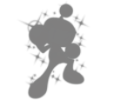
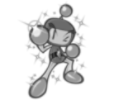
Sprites actualizados en el menu al hacer click y las sombras cambiadas.

diff --git a/petazeta/src/viewController/menuPruebitas.java b/petazeta/src/viewController/menuPruebitas.java
@@ -294,7 +294,21 @@ public class menuPruebitas extends JFrame implements Observer {
 				else if(pNum=='2'){pBomber = Bomber2;}
 				else if(pNum=='3'){pBomber = Bomber3;}
 				else if(pNum=='4'){pBomber = Bomber4;}
+
 				ImageIcon sprite = new ImageIcon(getClass().getResource("bomberUnknown" + pNum + ".png"));
+				pBomber.setIcon(escalarImagen(sprite, pBomber.getWidth(), pBomber.getHeight()));
+				
+			//Al hacer click
+				}
+			if(accion.matches("bomber\\d+Click")) 
+			{
+				char pNum = accion.charAt(6);
+				JLabel pBomber=null;
+				if(pNum=='1'){pBomber = Bomber1;}
+				else if(pNum=='2'){pBomber = Bomber2;}
+				else if(pNum=='3'){pBomber = Bomber3;}
+				else if(pNum=='4'){pBomber = Bomber4;}
+				ImageIcon sprite = new ImageIcon(getClass().getResource("bomber" + pNum + "Ex.png"));
 				pBomber.setIcon(escalarImagen(sprite, pBomber.getWidth(), pBomber.getHeight()));
 			}
 
@@ -406,10 +420,22 @@ public class menuPruebitas extends JFrame implements Observer {
   			if(e.getComponent()==Bomber1){
   				System.out.println("bomber1");
   				GestorMenuPrincipal.getMenu().cambiarJugador("white");
+  				menu.opcionesMenu(e.getComponent().getName()+"Click");
   			}
   			else if(e.getComponent()==Bomber2){
   				System.out.println("bomber2");
   				GestorMenuPrincipal.getMenu().cambiarJugador("black");
+  				menu.opcionesMenu(e.getComponent().getName()+"Click");
+  			}
+  			else if(e.getComponent()==Bomber3){
+  				System.out.println("bomber2");
+//  				GestorMenuPrincipal.getMenu().cambiarJugador("black");
+  				menu.opcionesMenu(e.getComponent().getName()+"Click");
+  			}
+  			else if(e.getComponent()==Bomber4){
+  				System.out.println("bomber2");
+//  				GestorMenuPrincipal.getMenu().cambiarJugador("black");
+  				menu.opcionesMenu(e.getComponent().getName()+"Click");
   			}
   		}
 
